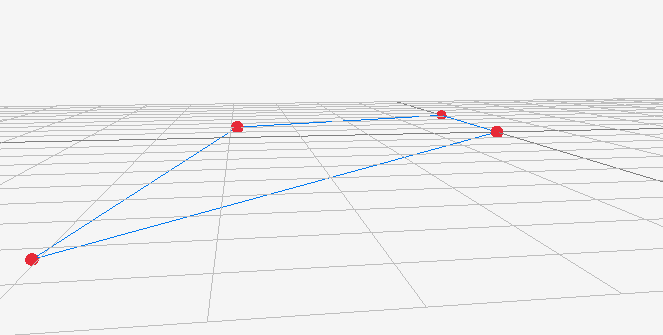
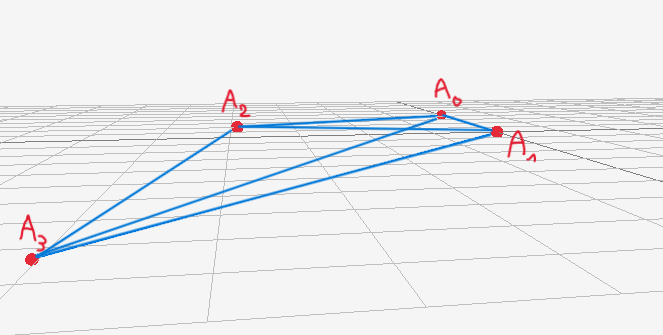
MAJ Software MDS

diff --git a/Rapport/Rapport projet/Software/software_maxime.tex b/Rapport/Rapport projet/Software/software_maxime.tex
@@ -282,9 +282,61 @@ Afin de simplifier les calculs effectués par l'ESP32-WROVER-E du hub lors de l'
 
 $$\nabla_{X_i} E(X) = \sum_{j \neq i} (X_i - X_j) \cdot \left( \frac{\hat{d}_{ij}(X) - d_{ij}}{\hat{d}_{ij}(X)} \right)$$
 
-Nous avons donc utilisé cette équation dans notre programme implémentant l'algorithme de \emph{Multidimensional Scaling}, avec comme paramètres $n=1000$ et $\alpha=0.01$. Nous avons créé la librairie {\ttfamily{GridLibrary.hpp}} dans laquelle nous avons implémenté l'algorithme dans la fonction {\ttfamily{initAnchorsCoordinatesWithGD}}.
+Nous avons donc utilisé cette équation dans notre programme implémentant l'algorithme de \emph{Multidimensional Scaling}, avec comme paramètres $n=1000$ et $\alpha=0.01$. Nous avons créé la librairie {\ttfamily{GridLibrary.hpp}} dans laquelle nous avons implémenté l'algorithme dans la fonction {\ttfamily{initAnchors\allowbreak CoordinatesWithGD}}.
 
-\textbf{<RAJOUTER DES IMAGES>}
+Voici un exemple visuel du résultat de l'algorithme lors de son utilisation pour le placement des ancres pendant le \uline{Jour des Projet} de l'ESIEE Paris :
+
+\begin{figure}[!ht]
+\centering 
+\includegraphics[width=0.7\columnwidth]{placement_ancres_jdp.jpg} 
+\caption[calibrage Ancres JDP]{Placement réelle des ancres lors du \uline{Jour des Projets}}
+\end{figure}
+
+\begin{figure}[!ht]
+\centering 
+\includegraphics[width=0.7\columnwidth]{calibrage_ancres.png} 
+\caption[calibrage Ancres JDP (repère virtuel)]{Reconstitution de la position des ancres par l'algorithme de \emph{Multidimensional Scaling}}
+\end{figure}
+
+Comme évoqué précédemment, l'algorithme de \emph{Multidimensional Scaling} a besoin de connaître les distances entre chaque ancres pour pouvoir effectuer la descente de gradient. Nous avons donc écris dans un premier temps un algorithme permettant de récupérer les distances entre chaque ancre en exécutant la méthode suivante en boucle :
+
+\bigskip
+
+\textbf{Pour les ancres :}
+
+\begin{itemize}
+   \item On vérifie si le Hub nous a envoyé un message pour nous avertir que la phase d'initialisation de la position des ancres est terminée. Si c'est le cas, on arrête le programme d'initialisation, sinon on lance la phase d'initialisation suivante : 
+   \item \begin{itemize}
+      \item On attend de recevoir un signal du hub pour nous indiquer que l'on doit se transformer en tag.
+      \item Si on s'est transformé en tag : 
+      \item \begin{itemize}
+         \item On vérifie que le hub ne nous a pas demandé de nous transformer en ancre. Si on a bien reçu un message, on arrête la phase courante d'initialisation et on repasse en mode ancre. Sinon, on effectue l'action ci dessous : 
+         \item On envoie la distance entre nous et la seule ancre toujours en mode ancre sur les quatres (l'ancre statique)
+      \end{itemize}
+   \end{itemize}
+\end{itemize}
+
+\textbf{<RAJOUTER ORGANIGRAMME ANCRES>}
+
+\bigskip
+
+\textbf{Pour le hub :}
+
+\begin{itemize}
+   \item On envoie un message à toutes les ancres pour signifier que la phase d'initialisation de la position des ancres commence.
+   \item On définit à tour de rôle une ancre statique, et on envoie un message aux trois autres pour qu'elle passe en mode tag.
+   \item On attend de recevoir un tableau contenant les 3 distances entre chaque ancre.
+\end{itemize}
+
+\textbf{<RAJOUTER ORGANIGRAMME HUB>}
+
+Cependant, la précision des mesures des distances entre les ancres n'ayant pas été très pointue lors de nos premiers tests (le taux d'erreurs pour les mesures oscillait entre 25\% et 50\%), nous avons pour le moment décidé de proposer à l'utilisateur de saisir manuellement les distances entre chaque ancre. L'algorithme de collecte des distances dépicté ci-dessus nécéssiterait une phase de développement plus importante avant d'envisager son utilisation au sein de notre système.
+
+\bigskip
+
+Nous avons donc explicité dans cette partie l'algorithme de \emph{Multidimensional Scaling} permettant d'initialiser les positions des ancres au sein du repère virtuel du hub. Nous étudierons par la suite l'algorithme de modélisation et de lissage de la zone de sécurité. Cependant, cet algorithme ayant également comme tâche la transmission des coordonnées des points formant la zone de sécurité dans un repère en deux dimensions à l'écran, il est nécessaire d'effectuer une projection des coordonnées 3D des points dans un repère en deux dimensions. Afin d'éviter l'exécution systématique d'un algorithme de projection des points sur le plan $(\vec{x}, \vec{y})$ du repère virtuel du hub, nous avons préféré écrire un algorithme de changement de base non seulement afin de limiter le temps de calcul de la fonction de projection, mais aussi dans le but de simplifier les programmes d'échanges de données entre le hub et l'écran. Nous allons donc étudier cet algorithme de changement de base dans la partie suivante.
+\textbf{<RAJOUTER SCREEN APPLI DISTANCES>}
 
 \subsection{Algorithme de changement de base}
 
+Comme introduit précédemment, nous avons besoin de l'algorithme de changement de base à la fois pour réduire le temps de calcul de la fonction de projection et à la fois pour simplifier les échanges de données entre le hub et l'écran. Étant donné que nous comptions également mettre les ancres ainsi que la représentation du véhicule équipé de notre système au centre de l'écran, nous avons besoin non seulement que le repère virtuel du hub soit exactement le repère du plan du véhicule, mais également que l'épicentre des ancres se situe au centre de notre repère afin de pouvoir aisément les afficher au centre de l'écran.

diff --git a/Rapport/Rapport projet/main.tex b/Rapport/Rapport projet/main.tex
@@ -30,7 +30,7 @@ BCOR5mm, % Binding correction
 
 
 
-\usepackage[english, french]{babel}
+\usepackage[english]{babel}
 
 \input{structure.tex} % Include the structure.tex file which specified the document structure and layout
 
